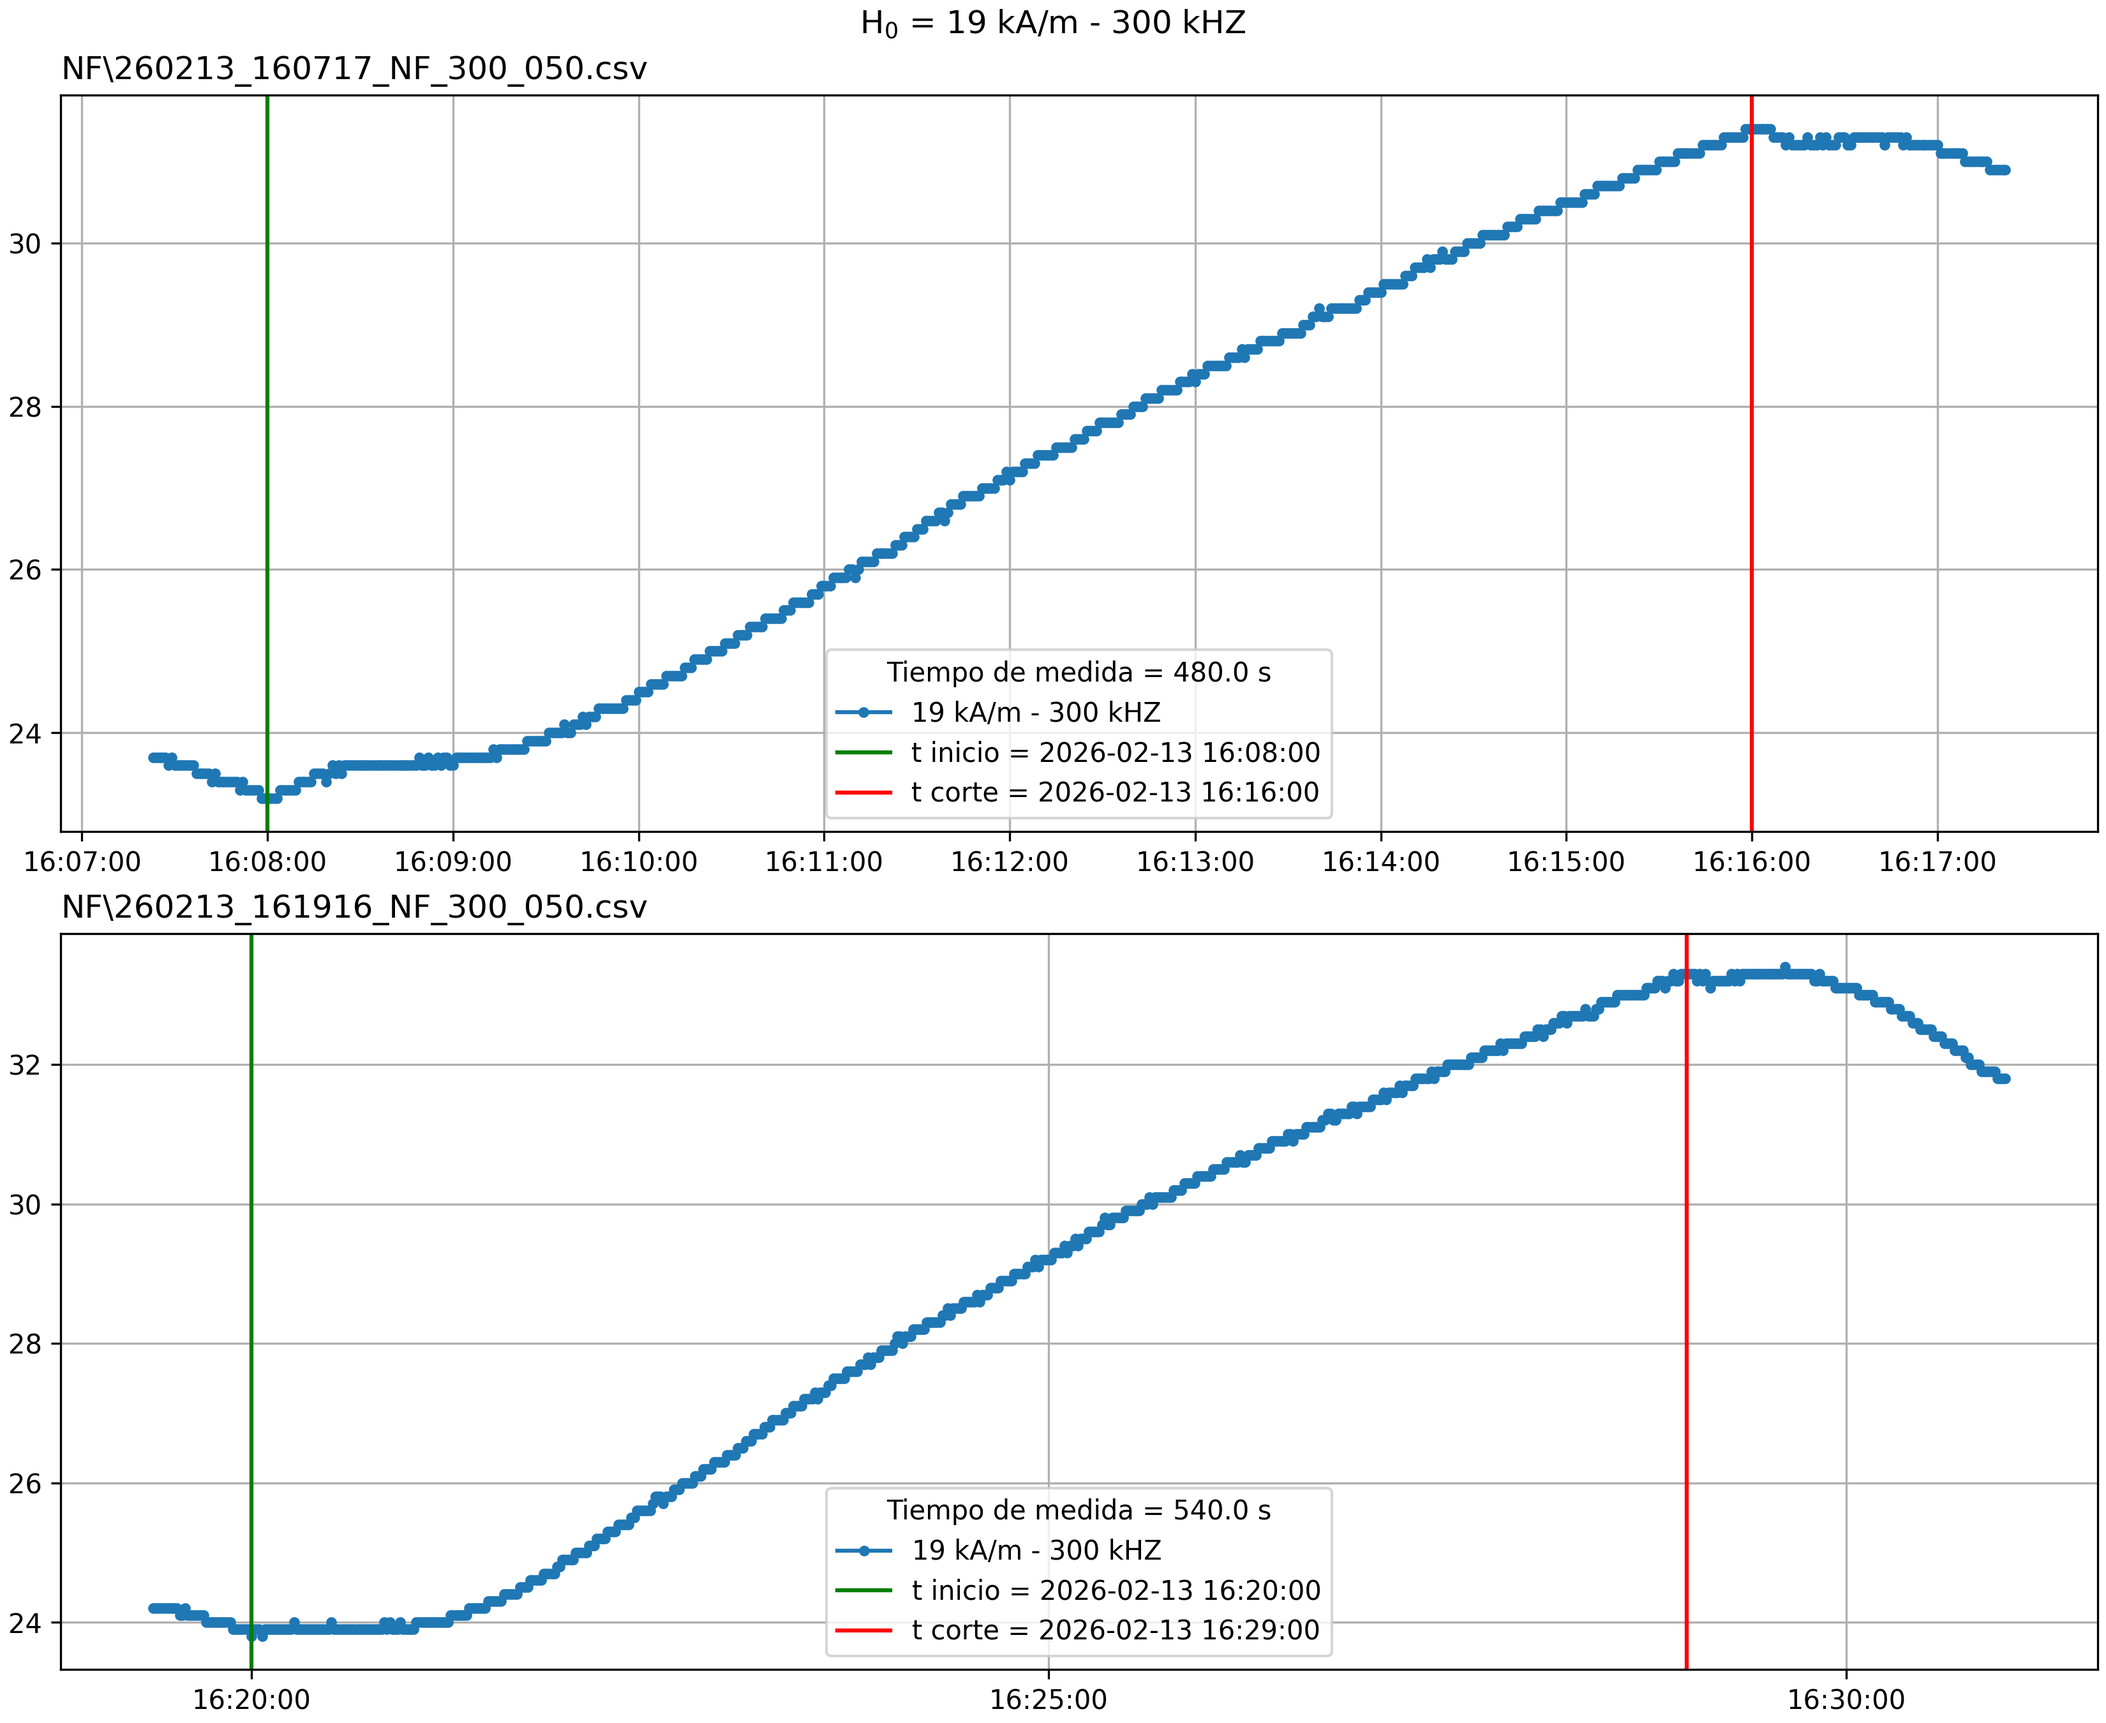
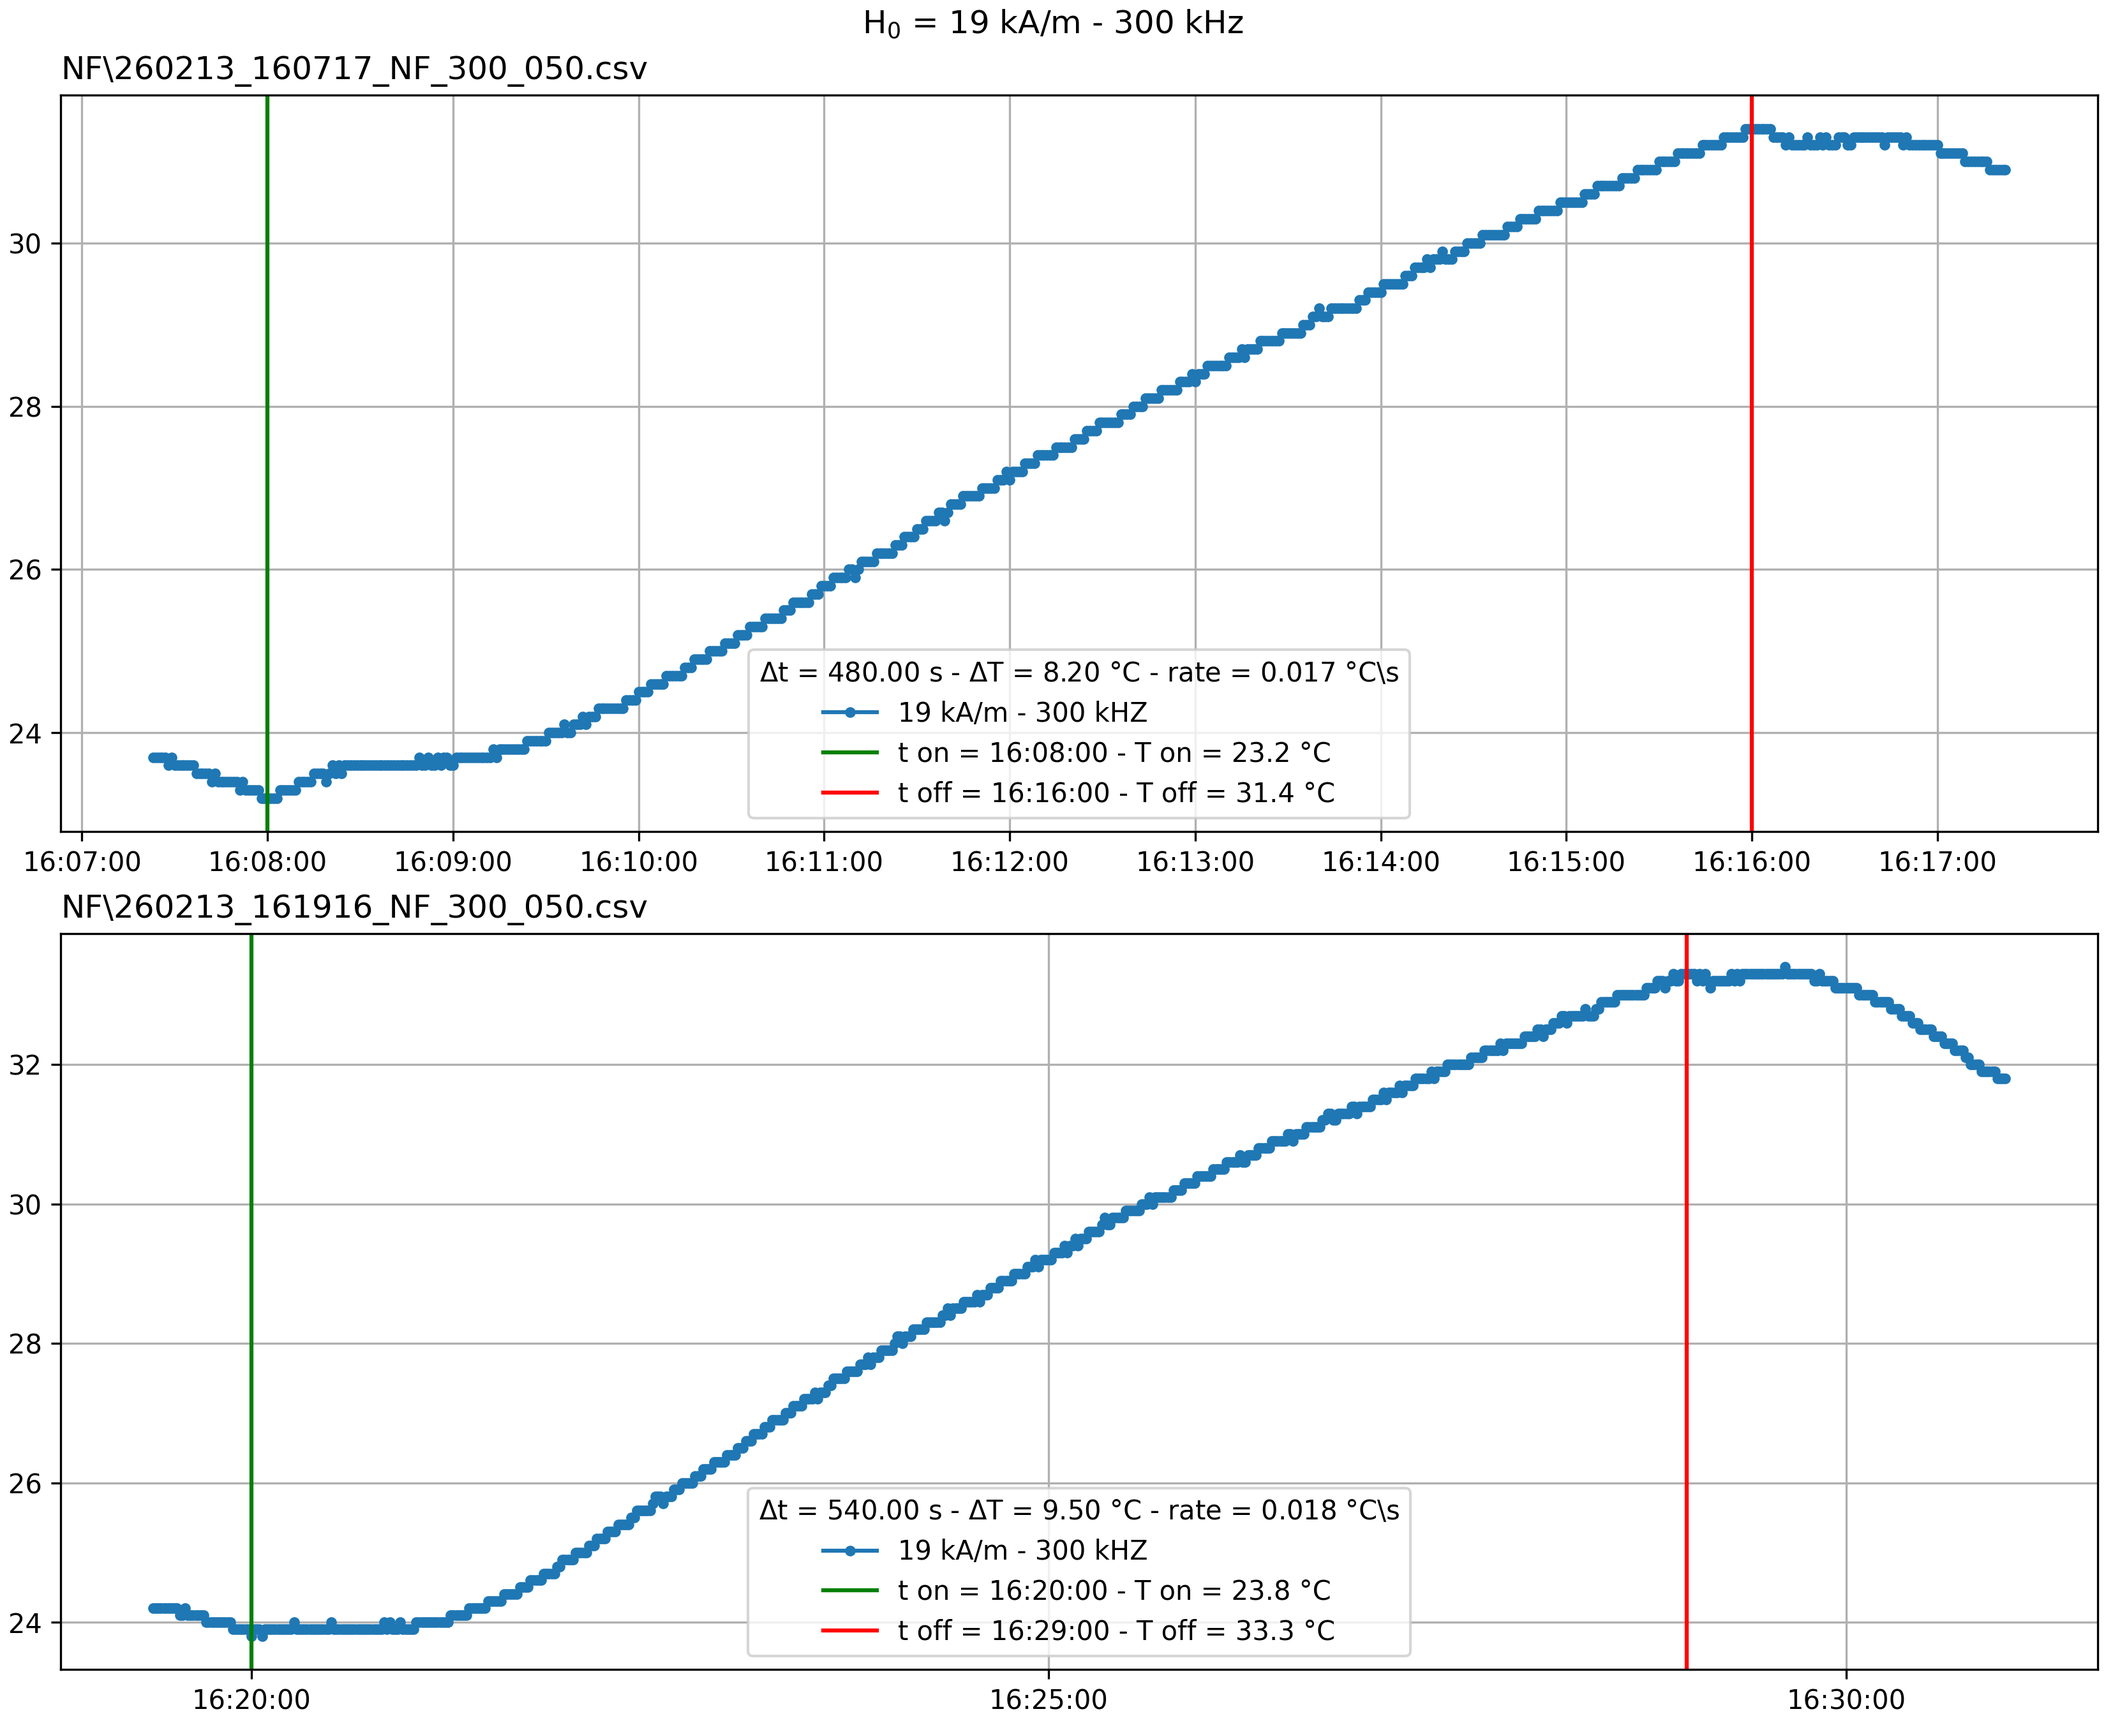
Derivada suavizada y CSAR punto a punto listo

diff --git a/CSAR.py b/CSAR.py
@@ -58,6 +58,7 @@ plt.ylabel('T (°C)')
 plt.ylim(23.5,24.5)
 plt.grid()      
 plt.title('Agua - 300 kHz - 57 kA/m')
+plt.savefig('templog_Agua.png',dpi=300)
 plt.show()
 
 #%% ===================== NE   =====================
@@ -87,43 +88,67 @@ t_NE_300_075_2,T_NE_300_075_2,_=lector_templog(paths_NE_300_075[1])
 t_NE_300_050_1,T_NE_300_050_1,_=lector_templog(paths_NE_300_050[0])
 t_NE_300_050_2,T_NE_300_050_2,_=lector_templog(paths_NE_300_050[1])
 
-tiempos=[t_NE_300_150_1,t_NE_300_150_2,
+tiempos_NE=[t_NE_300_150_1,t_NE_300_150_2,
          t_NE_300_125_1,t_NE_300_125_2,
          t_NE_300_100_1,t_NE_300_100_2,
          t_NE_300_075_1,t_NE_300_075_2,
          t_NE_300_050_1,t_NE_300_050_2]
-temperaturas=[T_NE_300_150_1,T_NE_300_150_2,
+temperaturas_NE=[T_NE_300_150_1,T_NE_300_150_2,
              T_NE_300_125_1,T_NE_300_125_2,
              T_NE_300_100_1,T_NE_300_100_2,
              T_NE_300_075_1,T_NE_300_075_2,
              T_NE_300_050_1,T_NE_300_050_2]
 
-t_on = [datetime(2026, 2, 13, 11, 31, 30), datetime(2026, 2, 13, 11, 40, 50),
+t_on_NE = [datetime(2026, 2, 13, 11, 31, 30), datetime(2026, 2, 13, 11, 40, 50),
         datetime(2026, 2, 13, 11, 47, 50), datetime(2026, 2, 13, 11, 57, 30),
         datetime(2026, 2, 13, 12, 7, 30), datetime(2026, 2, 13, 12, 17, 30),
         datetime(2026, 2, 13, 12, 29, 00), datetime(2026, 2, 13, 12, 42, 20),
         datetime(2026, 2, 13, 12, 54, 30), datetime(2026, 2, 13, 14, 32, 20)]
 
-t_off = [datetime(2026, 2, 13, 11, 34, 20), datetime(2026, 2, 13, 11, 43, 50),
+t_off_NE = [datetime(2026, 2, 13, 11, 34, 20), datetime(2026, 2, 13, 11, 43, 50),
          datetime(2026, 2, 13, 11, 51, 00), datetime(2026, 2, 13, 12, 00, 40),
          datetime(2026, 2, 13, 12, 11, 30), datetime(2026, 2, 13, 12, 23, 00),
          datetime(2026, 2, 13, 12, 36, 00), datetime(2026, 2, 13, 12, 49, 20),
          datetime(2026, 2, 13, 13, 7, 30), datetime(2026, 2, 13, 14, 51, 10)]
-delta_t = [(off-on).total_seconds() for on, off in zip(t_on, t_off)]
+delta_t = [(off-on).total_seconds() for on, off in zip(t_on_NE, t_off_NE)]
 
-titulos=[57,57,47,47,38,38,28,28,19,19]
-for i in range(0,len(titulos),2):  
+rates_NE=[]
+rates_NE_2=[]
+titulos_NE=[57,57,47,47,38,38,28,28,19,19]
+for i in range(0,len(titulos_NE),2): 
+    t_on_1 = t_on_NE[i]
+    t_off_1 = t_off_NE[i]
+    T_on_1 = temperaturas_NE[i][tiempos_NE[i] == t_on_1][0]
+    T_off_1 = temperaturas_NE[i][tiempos_NE[i] == t_off_1][0]
+    delta_T_1 = T_off_1 - T_on_1
+    delta_t_1 = (t_off_1 - t_on_1).total_seconds()
+    X_1 = delta_T_1 / delta_t_1
+    print(i,'-'*50,f'\ndt = {delta_t_1:.2f}',f'dT = {delta_T_1:.2f} C')
+    print(f'rate {X_1:.3f} C/s')
+    rates_NE.append(X_1)
+    t_on_2 = t_on_NE[i+1]
+    t_off_2 = t_off_NE[i+1]
+    T_on_2 = temperaturas_NE[i+1][tiempos_NE[i+1] == t_on_2][0]
+    T_off_2 = temperaturas_NE[i+1][tiempos_NE[i+1] == t_off_2][0]
+    delta_T_2 = T_off_2 - T_on_2
+    delta_t_2 = (t_off_2 - t_on_2).total_seconds()
+    X_2 = delta_T_2 / delta_t_2
+    print(i+1,f'dt = {delta_t_2:.2f}',f'dT = {delta_T_2:.2f} C')
+    print(f'rate {X_2:.3f} C/s\n','-'*50,)
+    rates_NE_2.append(X_2)
+
     fig,(ax,ax2)=plt.subplots(2,1,figsize=(11,9),constrained_layout=True)
-    ax.plot(tiempos[i],temperaturas[i],'.-',label=f'{titulos[i]} kA/m - 300 kHZ')
-    ax.axvline(x=t_on[i], color='g', ls='-',label=f't inicio = {t_on[i]}')
-    ax.axvline(x=t_off[i], color='r', ls='-',label=f't corte = {t_off[i]}')
-    ax.set_title(f'H$_0$ = {titulos[i]} kA/m - 300 kHZ',loc='left')
-    ax2.plot(tiempos[i+1],temperaturas[i+1],'.-',label=f'{titulos[i]} kA/m - 300 kHZ')
-    ax2.axvline(x=t_on[i+1], color='g', ls='-',label=f't inicio = {t_on[i+1]}')
-    ax2.axvline(x=t_off[i+1], color='r', ls='-',label=f't corte = {t_off[i+1]}')
+    ax.plot(tiempos_NE[i],temperaturas_NE[i],'.-',label=f'{titulos_NE[i]} kA/m - 300 kHZ')
+    ax.axvline(x=t_on_NE[i], color='g', ls='-',label=f't on = {t_on_NE[i].strftime('%H:%M:%S')} - T on = {T_on_1} °C')
+    ax.axvline(x=t_off_NE[i], color='r', ls='-',label=f't off = {t_off_NE[i].strftime('%H:%M:%S')} - T off = {T_off_1} °C')
+    ax2.plot(tiempos_NE[i+1],temperaturas_NE[i+1],'.-',label=f'{titulos_NE[i+1]} kA/m - 300 kHZ')
+    ax2.axvline(x=t_on_NE[i+1], color='g', ls='-',label=f't on = {t_on_NE[i+1].strftime('%H:%M:%S')} - T on = {T_on_2} °C')
+    ax2.axvline(x=t_off_NE[i+1], color='r', ls='-',label=f't off = {t_off_NE[i+1].strftime('%H:%M:%S')} - T off = {T_off_2} °C')
     
-    ax.legend(title=f'Tiempo de medida = {delta_t[i]} s')
-    ax2.legend(title=f'Tiempo de medida = {delta_t[i+1]} s')
+    
+    ax.legend(title=fr'$\Delta$t = {delta_t_1:.2f} s - $\Delta$T = {delta_T_1:.2f} °C - rate = {X_1:.3f} °C\s')
+    ax2.legend(title=fr'$\Delta$t = {delta_t_2:.2f} s - $\Delta$T = {delta_T_2:.2f} °C - rate = {X_2:.3f} °C\s')
+
     for a in (ax,ax2):
         a.grid()
         a.set_ylim(20,43)
@@ -132,10 +157,10 @@ for i in range(0,len(titulos),2):
     ax2.set_title(paths_NE[i+1],loc='left')
     ax2.set_xlabel('t (s)')  
     
-    plt.suptitle(f'H$_0$ = {titulos[i]} kA/m - 300 kHZ')   
-    plt.savefig(f'NE_T_vs_t_{titulos[i]}kAm_300kHz.png', dpi=300)
+    plt.suptitle(f'H$_0$ = {titulos_NE[i]} kA/m - 300 kHZ')   
+    plt.savefig(f'NE_T_vs_t_{titulos_NE[i]}kAm_300kHz.png', dpi=300)
     plt.show()    
-
+#%%
 t_NE_300_150_1 = np.array([(t-t_NE_300_150_1[0]).total_seconds() for t in t_NE_300_150_1])
 t_NE_300_150_2 = np.array([(t-t_NE_300_150_2[0]).total_seconds() for t in t_NE_300_150_2])
 t_NE_300_125_1 = np.array([(t-t_NE_300_125_1[0]).total_seconds() for t in t_NE_300_125_1])
@@ -171,7 +196,7 @@ for a in (ax,ax1,ax2,ax3,ax4):
     a.set_xlim(0,)
     a.set_ylim(20,43)
 ax4.set_xlabel('t (s)')   
-plt.suptitle('NE@citrico - coprecpitacion',fontsize=16)
+plt.suptitle('NE@citrico - coprecipitacion',fontsize=16)
 plt.savefig('NE_T_vs_t_all.png', dpi=300)
 
 plt.show()
@@ -231,19 +256,45 @@ datetime(2026,2,13,16,16,0),datetime(2026,2,13,16,29,0)]
 #%
 delta_t_NF = [(off-on).total_seconds() for on,off in zip(t_on_NF,t_off_NF)]
 titulos_NF = [57,57,47,47,38,38,28,28,19,19]
+
+rates_NF=[]
+rates_NF_2=[]
+
+#%
 import matplotlib.dates as mdates
 
-for i in range(0,len(titulos_NF),2):  
+for i in range(0,len(titulos_NF),2):
+    t_on_1 = t_on_NF[i]
+    t_off_1 = t_off_NF[i]
+    T_on_1 = temperaturas_NF[i][tiempos_NF[i] == t_on_1][0]
+    T_off_1 = temperaturas_NF[i][tiempos_NF[i] == t_off_1][0]
+    delta_T_1 = T_off_1 - T_on_1
+    delta_t_1 = (t_off_1 - t_on_1).total_seconds()
+    X_1 = delta_T_1 / delta_t_1
+    print(i,'-'*50,f'\ndt = {delta_t_1:.2f}',f'dT = {delta_T_1:.2f} C')
+    print(f'rate {X_1:.3f} C/s')
+    rates_NF.append(X_1)
+    t_on_2 = t_on_NF[i+1]
+    t_off_2 = t_off_NF[i+1]
+    T_on_2 = temperaturas_NF[i+1][tiempos_NF[i+1] == t_on_2][0]
+    T_off_2 = temperaturas_NF[i+1][tiempos_NF[i+1] == t_off_2][0]
+    delta_T_2 = T_off_2 - T_on_2
+    delta_t_2 = (t_off_2 - t_on_2).total_seconds()
+    X_2 = delta_T_2 / delta_t_2
+    print(i+1,f'dt = {delta_t_2:.2f}',f'dT = {delta_T_2:.2f} C')
+    print(f'rate {X_2:.3f} C/s\n','-'*50,)
+    rates_NF_2.append(X_2)
+    
     fig,(ax,ax2)=plt.subplots(2,1,figsize=(11,9),constrained_layout=True)
     ax.plot(tiempos_NF[i],temperaturas_NF[i],'.-',label=f'{titulos_NF[i]} kA/m - 300 kHZ')
-    ax.axvline(x=t_on_NF[i], color='g', ls='-',label=f't inicio = {t_on_NF[i]}')
-    ax.axvline(x=t_off_NF[i], color='r', ls='-',label=f't corte = {t_off_NF[i]}')
+    ax.axvline(x=t_on_NF[i], color='g', ls='-',label=f't on = {t_on_NF[i].strftime('%H:%M:%S')} - T on = {T_on_1} °C')
+    ax.axvline(x=t_off_NF[i], color='r', ls='-',label=f't off = {t_off_NF[i].strftime('%H:%M:%S')} - T off = {T_off_1} °C')
     ax2.plot(tiempos_NF[i+1],temperaturas_NF[i+1],'.-',label=f'{titulos_NF[i+1]} kA/m - 300 kHZ')
-    ax2.axvline(x=t_on_NF[i+1], color='g', ls='-',label=f't inicio = {t_on_NF[i+1]}')
-    ax2.axvline(x=t_off_NF[i+1], color='r', ls='-',label=f't corte = {t_off_NF[i+1]}')
+    ax2.axvline(x=t_on_NF[i+1], color='g', ls='-',label=f't on = {t_on_NF[i+1].strftime('%H:%M:%S')} - T on = {T_on_2} °C')
+    ax2.axvline(x=t_off_NF[i+1], color='r', ls='-',label=f't off = {t_off_NF[i+1].strftime('%H:%M:%S')} - T off = {T_off_2} °C')
     
-    ax.legend(title=f'Tiempo de medida = {delta_t_NF[i]} s')
-    ax2.legend(title=f'Tiempo de medida = {delta_t_NF[i+1]} s')
+    ax.legend(title=fr'$\Delta$t = {delta_t_1:.2f} s - $\Delta$T = {delta_T_1:.2f} °C - rate = {X_1:.3f} °C\s')
+    ax2.legend(title=fr'$\Delta$t = {delta_t_2:.2f} s - $\Delta$T = {delta_T_2:.2f} °C - rate = {X_2:.3f} °C\s')
     for a in (ax,ax2):
         a.grid()
         a.xaxis.set_major_formatter(mdates.DateFormatter('%H:%M:%S'))
@@ -251,7 +302,7 @@ for i in range(0,len(titulos_NF),2):
     ax.set_title(paths_NF[i],loc='left')
     ax2.set_title(paths_NF[i+1],loc='left')
     
-    plt.suptitle(f'H$_0$ = {titulos_NF[i]} kA/m - 300 kHZ')
+    plt.suptitle(f'H$_0$ = {titulos_NF[i]} kA/m - 300 kHz')
     plt.savefig(f'NF_T_vs_t_{titulos_NF[i]}kAm_300kHz.png', dpi=300)
     plt.show()    
     
@@ -265,7 +316,7 @@ t_NF_300_075_1 = np.array([(t-t_NF_300_075_1[0]).total_seconds() for t in t_NF_3
 t_NF_300_075_2 = np.array([(t-t_NF_300_075_2[0]).total_seconds() for t in t_NF_300_075_2])
 t_NF_300_050_1 = np.array([(t-t_NF_300_050_1[0]).total_seconds() for t in t_NF_300_050_1])
 t_NF_300_050_2 = np.array([(t-t_NF_300_050_2[0]).total_seconds() for t in t_NF_300_050_2])
-#% Comparativas
+#% Comparativas NF
 fig,(ax,ax1,ax2,ax3,ax4)=plt.subplots(5,1,figsize=(10,10), constrained_layout=True,
                                       sharex=True,sharey=True)
 
@@ -292,10 +343,11 @@ for a in (ax,ax1,ax2,ax3,ax4):
     #.set_ylim(20,43)
 ax4.set_xlabel('t (s)')    
 
-plt.suptitle('NF@citrico - coprecpitacion',fontsize=16)
+plt.suptitle('NF@citrico - solvotermal',fontsize=16)
 plt.savefig('NF_T_vs_t_all.png', dpi=300)
 
 plt.show()
+
 #%% Comparativa NE vs NF
 fig,(ax,ax1,ax2,ax3,ax4)=plt.subplots(5,1,figsize=(10,10), constrained_layout=True,
                                       sharex=True)
@@ -342,12 +394,28 @@ for a in (ax,ax1,ax2,ax3,ax4):
 ax4.set_ylim(20,34)
 ax4.set_xlabel('t (s)')    
 plt.xlim(0,1200)
-plt.suptitle('NF@citrico - coprecpitacion',fontsize=16)
-plt.savefig('NE&NF_T_vs_t_all.png', dpi=300)
+plt.suptitle('NF@citrico & NE@citrico',fontsize=16)
+plt.savefig('NF&NE_T_vs_t_comparativa_all.png', dpi=300)
+#%% Comparativas Warming Rates
+H0=np.array([57,47,38,29,20])
+fig2,(ax,ax2) = plt.subplots(2,1,figsize=(8,5),sharex=True,constrained_layout=True)
 
+ax.plot(H0,rates_NF,'o-')
+ax.plot(H0,rates_NF_2,'o-')
 
+ax2.plot(H0,rates_NE,'o-',c='C2')
+ax2.plot(H0,rates_NE_2,'o-',c='C3')
 
-#%%%  CSAR vs t NE ========================== 
+for a in ax,ax2:
+    a.grid()
+    a.set_ylabel('Raw Warming Rate (°C/s)')
+ax.set_title('NF - 300 kHz',loc='left')
+ax2.set_title('NE - 300 kHz',loc='left')
+ax2.set_xticks(H0)
+ax2.set_xlabel('H$_0$ (kA/m)')
+plt.suptitle(r'Raw Warming rate: $\Delta$T/$\Delta$t')
+plt.show()
+#%%%  CSAR vs t NF ========================== 
 t_NF_1 = t_NF_300_150_1
 T_NF_1 = T_NF_300_150_1
 
@@ -382,7 +450,7 @@ CSAR_NF_2 = dT_NF_2*4.186e3/concentracion_NF
 CSAR_NF_3 = dT_NF_3*4.186e3/concentracion_NF
 CSAR_NF_4 = dT_NF_4*4.186e3/concentracion_NF
 
-fig,(ax,ax2,ax3)=plt.subplots(3,1,figsize=(10,12),constrained_layout=True,sharex=True) 
+fig,(ax,ax2,ax3)=plt.subplots(3,1,figsize=(10,10),constrained_layout=True,sharex=True) 
 ax.plot(t_NF_1,T_NF_1,'.-',label=paths_NF[0])
 ax.plot(t_NF_2,T_NF_2,'.-',label=paths_NF[2])
 ax.plot(t_NF_3,T_NF_3,'.-',label=paths_NF[4])
@@ -403,6 +471,7 @@ for a in [ax,ax2,ax3]:
     a.set_xlim(0,)
     #.set_ylim(20,43)
 ax.set_ylabel('T (°C)')
+ax3.set_ylim(0,)
 ax2.set_ylabel('dT/dt (°C/s)')
 ax3.set_ylabel('CSAR (W/g)')
 ax3.set_xlabel('t (s)')
@@ -576,7 +645,7 @@ ax3.plot(t_NE_1,CSAR_NE_1,'.-',label=paths_NE[0])
 ax3.plot(t_NE_2,CSAR_NE_2,'.-',label=paths_NE[2])
 ax3.plot(t_NE_3,CSAR_NE_3,'.-',label=paths_NE[4])
 ax3.plot(t_NE_4,CSAR_NE_4,'.-',label=paths_NE[6])
-
+ax3.set_ylim(0,)
 for a in [ax,ax2,ax3]:
     a.grid()
     a.legend()
@@ -587,7 +656,7 @@ ax2.set_ylabel('dT/dt (°C/s)')
 ax3.set_ylabel('CSAR (W/g)')
 ax3.set_xlabel('t (s)')
 plt.suptitle('CSAR - NE@citrico - 15.0 g/L',fontsize=16)
-#plt.savefig('CSAR_NE.png', dpi=300)
+plt.savefig('CSAR_NE_derivada_suavizada.png', dpi=300)
 
 
 
